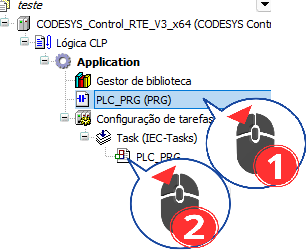
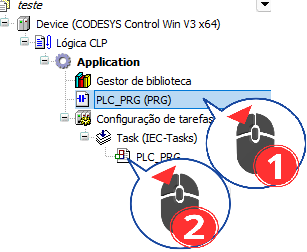
refactor readme.md

Changed region(s): [[0.1173, 0.0556, 0.8795, 0.1389]]

diff --git a/README.md b/README.md
@@ -308,7 +308,7 @@ Ao final deste procedimento, o sistema estará:
 ### 🔹 Passo 8 – Atualizar o dispositivo do PLC
 ![fig8](assets/imgs/fig8.png)
 
-1. Na árvore de dispositivos, **clique com o botão direito** no **PLC (CODESYS Control RTE...)**
+1. Na árvore de dispositivos, **clique com o botão direito** no **PLC (CODESYS Control Win V3...)**
 2. Selecione **Atualizar dispositivo...**
 
 💡 *Isso ajuda o CODESYS a recarregar as opções e dispositivos disponíveis.*
